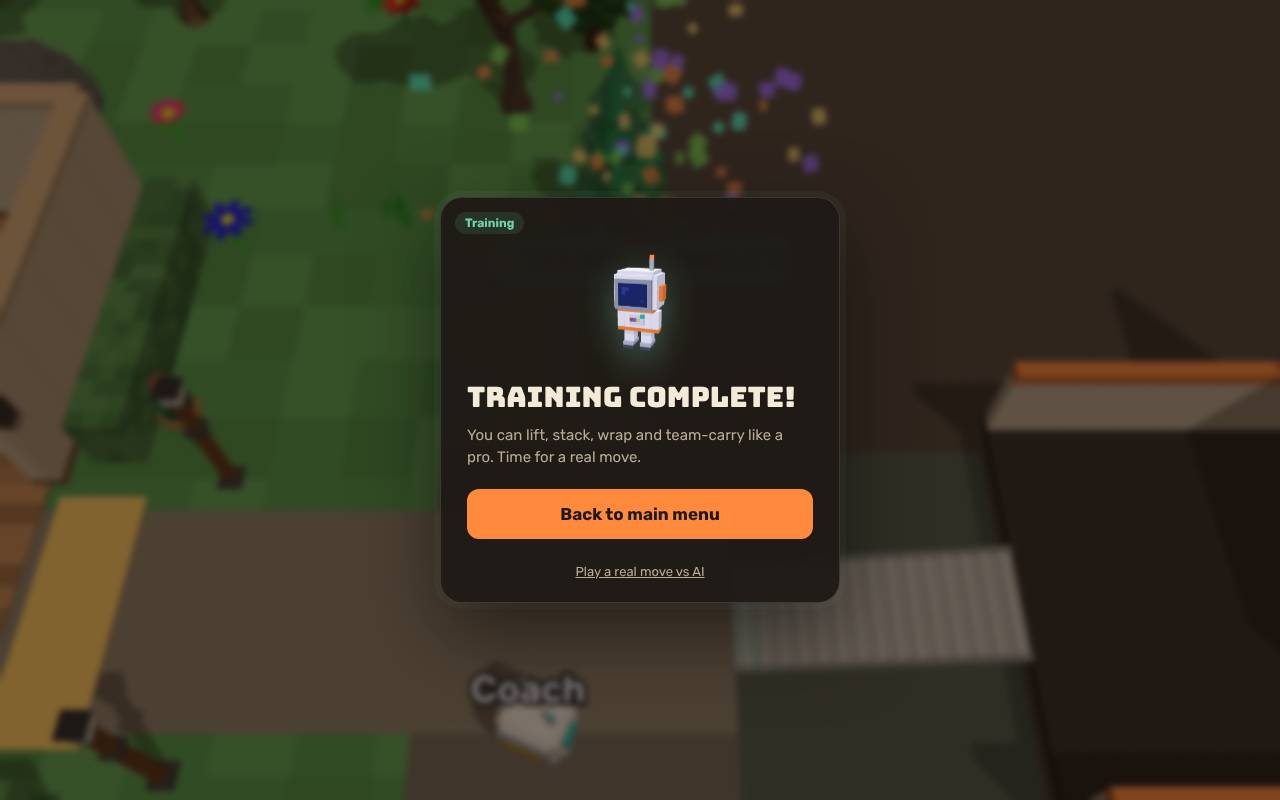
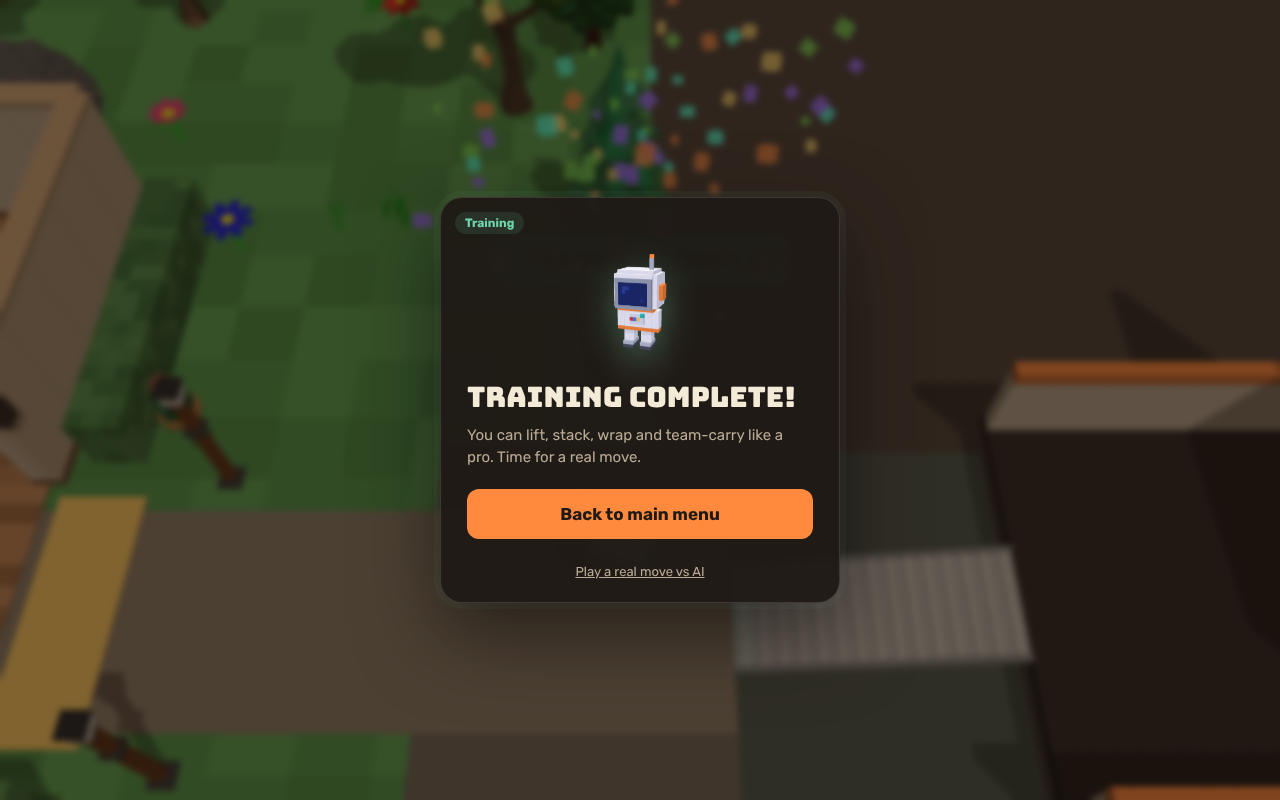
Tap battles for any box someone carries and any dolly someone pushes (the winner takes the dolly with its load)
Claude-Session: https://claude.ai/code/session_01648dekPAc2ghJPhwff6oRe

diff --git a/server/MoveRoom.js b/server/MoveRoom.js
@@ -733,6 +733,7 @@ export class MoveRoom extends Room {
     const target = wantOk ? want : this.nearestItem(p);
     if (!target) return;
     const t = ITEM_TYPES[target.type];
+    if (this.holderOf(target)) return this.startDuel(p, target); // someone else has it: fight for it
     if (target.type === 'flatdolly') {
       target.state = 'pushed'; target.pusher = p.id; p.flatDolly = target.id;
       this.event({ kind: 'emote', id: p.id, e: '🛞' });
@@ -767,8 +768,9 @@ export class MoveRoom extends Room {
   nearestItem(p) {
     let best = null, bd = REACH;
     for (const it of this.items.values()) {
-      if ((it.type === 'dolly' || it.type === 'flatdolly') && (p.bot || it.state !== 'floor')) continue; // AI movers leave the dollies alone
-      const stealable = it.state === 'carried' && ITEM_TYPES[it.type].teamCarry && it.carriers.length === 2 && !p.carry && !it.carriers.includes(p.id);
+      const grab = !p.bot && this.holderOf(it) && this.holderOf(it) !== p && !p.carry; // a box someone carries / a dolly someone pushes
+      if ((it.type === 'dolly' || it.type === 'flatdolly') && (p.bot || it.state !== 'floor') && !grab) continue; // AI movers leave the dollies alone
+      const stealable = grab || (it.state === 'carried' && ITEM_TYPES[it.type].teamCarry && it.carriers.length === 2 && !p.carry && !it.carriers.includes(p.id));
       if (it.state !== 'floor' && !(it.state === 'carried' && ITEM_TYPES[it.type].teamCarry && it.carriers.length === 1) && !stealable) continue;
       const t = ITEM_TYPES[it.type], len = Math.max(t.w, t.d);
       const d = dist(p, it) - (len > 1 ? len * 0.35 : 0);
@@ -777,12 +779,28 @@ export class MoveRoom extends Room {
     return best;
   }
 
-  // ---------- steal a two-mover lift: 5 s tap battle between the challenger and the nearest carrier ----------
+  /** who you'd have to beat to take this: the one mover carrying a box (or one-mover piece), or whoever pushes a dolly.
+   *  (A two-mover lift is fought over end by end: see startDuel.) */
+  holderOf(it) {
+    if ((it.type === 'dolly' || it.type === 'flatdolly') && it.state === 'pushed') return this.players.get(it.pusher) || null;
+    if (it.state === 'carried' && it.carriers.length === 1 && !ITEM_TYPES[it.type].teamCarry) return this.players.get(it.carriers[0]) || null;
+    return null;
+  }
+  /** does this mover still have it (carrying it, or pushing the dolly)? */
+  stillHolds(it, who) {
+    if (!it || !who) return false;
+    if (it.type === 'dolly' || it.type === 'flatdolly') return it.state === 'pushed' && it.pusher === who.id;
+    return it.state === 'carried' && it.carriers.includes(who.id);
+  }
+
+  // ---------- tap battles: steal an end of a two-mover lift, a box someone carries, or a dolly someone pushes ----------
   startDuel(p, item) {
     this.duels ||= new Map();
-    if (this.duels.has(item.id) || p.duel || p.carry || !this.isActive(p)) return;
-    const holders = item.carriers.map(id => this.players.get(id)).filter(Boolean);
-    if (holders.some(h => h.loadMode || h.duel)) return;
+    if (this.duels.has(item.id) || p.duel || p.carry || p.dolly || p.flatDolly || !this.isActive(p)) return;
+    const one = this.holderOf(item);
+    const holders = one ? [one] : item.carriers.map(id => this.players.get(id)).filter(Boolean);
+    if (holders.some(h => h.loadMode || h.duel || h === p)) return; // already at the truck, or busy
+    if (one && one.carry && one.carry !== item.id) return; // pushing a dolly but also holding a box (unloading it)
     const victim = holders.sort((a, b) => dist(p, a) - dist(p, b))[0];
     if (!victim) return;
     const d = { item: item.id, a: p.id, b: victim.id, t: DUEL_SECONDS, ca: 0, cb: 0, tok: { [p.id]: DUEL_TAP_BURST, [victim.id]: DUEL_TAP_BURST } };
@@ -790,7 +808,8 @@ export class MoveRoom extends Room {
     p.duel = item.id; victim.duel = item.id;
     const label = ITEM_TYPES[item.type].label.toLowerCase();
     this.event({ kind: 'duel', item: item.id, a: p.id, b: victim.id });
-    this.event({ kind: 'toast', text: `⚔ ${p.name} is trying to steal ${victim.name}'s end of the ${label}! TAP TAP TAP!`, cls: 'help' });
+    const what = item.type === 'dolly' || item.type === 'flatdolly' ? `${victim.name}'s ${label}` : one ? `the ${label} ${victim.name} is carrying` : `${victim.name}'s end of the ${label}`;
+    this.event({ kind: 'toast', text: `⚔ ${p.name} is trying to steal ${what}! TAP TAP TAP!`, cls: 'help' });
   }
   duelTap(p) {
     if (!p?.duel) return;
@@ -821,20 +840,28 @@ export class MoveRoom extends Room {
         while (bot.duelAcc >= 1) { bot.duelAcc -= 1; this.duelPoint(d, who); }
       }
       d.t -= dt;
-      const over = d.t <= 0 || !a || !this.isActive(a) || !item || item.state !== 'carried' || !item.carriers.includes(d.b);
+      const held = this.stillHolds(item, b);
+      const over = d.t <= 0 || !a || !this.isActive(a) || !item || !held;
       if (!over) continue;
       this.duels.delete(id);
       if (a) a.duel = null; if (b) b.duel = null;
-      if (!a || !item || item.state !== 'carried') continue;
-      const label = ITEM_TYPES[item.type].label.toLowerCase();
-      const holderGone = !b || !item.carriers.includes(d.b) || !this.isActive(b);
-      if ((d.ca > d.cb || holderGone) && !a.carry && this.isActive(a)) {
-        if (item.carriers.includes(d.b)) item.carriers[item.carriers.indexOf(d.b)] = a.id;
-        else if (item.carriers.length < 2) item.carriers.push(a.id);
-        if (b && b.carry === id) b.carry = null;
-        a.carry = id;
-        this.event({ kind: 'emote', id: a.id, e: '💪' });
-        this.event({ kind: 'toast', text: `⚔ ${a.name} wins ${Math.round(d.ca)}–${Math.round(d.cb)} and takes ${b?.name || 'their'}'s end of the ${label}!` });
+      const label = item ? ITEM_TYPES[item.type].label.toLowerCase() : '';
+      if (!a || !item || !held) { this.event({ kind: 'duelEnd', item: id, a: d.a, b: d.b, ca: d.ca, cb: d.cb }); continue; } // it got dropped or loaded mid-fight: nothing to win
+      const free = !a.carry && !a.dolly && !a.flatDolly && this.isActive(a);
+      if ((d.ca > d.cb || !this.isActive(b)) && free) {
+        const dollyKind = item.type === 'dolly' ? 'dolly' : item.type === 'flatdolly' ? 'flatDolly' : null;
+        if (dollyKind) { // the dolly and everything on it change hands
+          item.pusher = a.id; b[dollyKind] = null; a[dollyKind] = id;
+          if (item.type === 'flatdolly') item.wobble = 0;
+          this.event({ kind: 'emote', id: a.id, e: item.type === 'dolly' ? '🛒' : '🛞' });
+          this.event({ kind: 'toast', text: `⚔ ${a.name} wins ${Math.round(d.ca)}–${Math.round(d.cb)} and takes ${b.name}'s ${label}${item.stack?.length || item.piece ? ', load and all' : ''}!` });
+        } else {
+          item.carriers[item.carriers.indexOf(d.b)] = a.id;
+          if (b.carry === id) b.carry = null;
+          a.carry = id;
+          this.event({ kind: 'emote', id: a.id, e: '💪' });
+          this.event({ kind: 'toast', text: `⚔ ${a.name} wins ${Math.round(d.ca)}–${Math.round(d.cb)} and takes ${ITEM_TYPES[item.type].teamCarry ? `${b.name}'s end of the ${label}` : `the ${label} from ${b.name}`}!` });
+        }
       } else {
         this.event({ kind: 'toast', text: `🛡 ${b?.name || 'The carrier'} holds on ${Math.round(d.cb)}–${Math.round(d.ca)}! The ${label} stays put.` });
       }

diff --git a/test/duel.test.js b/test/duel.test.js
@@ -127,3 +127,57 @@ test('steal: a person tapping at an ordinary 6–7 taps a second beats a hard AI
   }
   assert.ok(wins >= 7, `an ordinary human pace should usually beat a hard AI (won ${wins}/10)`);
 });
+
+test('steal: tap someone carrying a box to fight for it; the winner walks off with it', () => {
+  const { room, P, couch, send } = setup();
+  couch.state = 'floor'; couch.carriers = []; P.A.carry = null; P.B.carry = null;
+  const box = [...room.items.values()].find(i => i.type === 'standard' && i.state === 'floor');
+  box.state = 'carried'; box.carriers = ['A']; P.A.carry = box.id;
+  P.A.x = 3; P.A.z = 3; box.x = 3; box.z = 3; P.C.x = 3.6; P.C.z = 3;
+  tap(room, P.C);
+  const d = room.duels.get(box.id);
+  assert.ok(d && d.a === 'C' && d.b === 'A', 'battle for the box');
+  mash(room, send, 'C', 40);
+  for (let t = 0; t < 6; t += DT) room.tick(DT);
+  assert.equal(P.C.carry, box.id); assert.equal(P.A.carry, null);
+  assert.deepEqual(box.carriers, ['C']);
+});
+
+test('steal: the box holder who taps harder keeps it', () => {
+  const { room, P, couch, send } = setup();
+  couch.state = 'floor'; couch.carriers = []; P.A.carry = null; P.B.carry = null;
+  const box = [...room.items.values()].find(i => i.type === 'standard' && i.state === 'floor');
+  box.state = 'carried'; box.carriers = ['A']; P.A.carry = box.id;
+  P.A.x = 3; P.A.z = 3; box.x = 3; box.z = 3; P.C.x = 3.6; P.C.z = 3;
+  tap(room, P.C);
+  mash(room, send, 'A', 40);
+  for (let t = 0; t < 6; t += DT) room.tick(DT);
+  assert.equal(P.A.carry, box.id); assert.equal(P.C.carry, null);
+});
+
+test('steal: fight for a dolly someone is pushing; the winner gets the dolly and its boxes', () => {
+  const room = new MoveRoom(), handlers = {};
+  room.onMessage = (t, fn) => { handlers[t] = fn; }; room.setSimulationInterval = () => {}; room.clients = []; room.broadcast = () => {};
+  room.onCreate({ level: 'classic' }); // with the dollies
+  for (const id of ['A', 'C']) { room.clients.push({ sessionId: id, send: () => {} }); room.onJoin({ sessionId: id }, {}, { name: id, email: id + '@x.io' }); }
+  room.startRound(); while (room.phase !== 'playing') room.tick(DT);
+  const A = room.players.get('A'), C = room.players.get('C'), send = (id, t, m) => handlers[t]({ sessionId: id }, m);
+  for (const kind of ['dolly', 'flatdolly']) {
+    const dl = room.items.get(kind), key = kind === 'dolly' ? 'dolly' : 'flatDolly';
+    A.x = dl.x; A.z = dl.z; tap(room, A);
+    assert.equal(A[key], kind, `A pushes the ${kind}`);
+    const box = [...room.items.values()].find(i => i.type === 'standard' && i.state === 'floor');
+    box.x = A.x + 0.3; box.z = A.z; tap(room, A);
+    assert.equal(dl.stack.length, 1, 'a box on it');
+    for (const it of room.items.values()) if (it.state === 'floor' && Math.hypot(it.x - dl.x, it.z - dl.z) < 2.5) { it.x += 6; } // nothing else within reach
+    C.x = dl.x + 0.4; C.z = dl.z + 0.3;
+    tap(room, C);
+    assert.ok(room.duels.get(kind), `battle for the ${kind}`);
+    mash(room, send, 'C', 40);
+    for (let t = 0; t < 6; t += DT) room.tick(DT);
+    assert.equal(C[key], kind, `C took the ${kind}`); assert.equal(A[key], null);
+    assert.equal(dl.pusher, 'C'); assert.equal(dl.stack.length, 1, 'load and all');
+    tap(room, C); // set it down for the next one
+    for (const p of [A, C]) { p.energy = 1; p.injuredT = 0; }
+  }
+});

diff --git a/client/src/main.js b/client/src/main.js
@@ -517,7 +517,8 @@ function renderHud(s, me) {
 function nearest(s, me) {
   let best = null, bd = 1.7;
   for (const it of s.items) {
-    const stealable = it.state === 'carried' && ITEM_TYPES[it.type].teamCarry && it.n === 2 && !me.carry;
+    const grab = !me.carry && ((it.state === 'carried' && !ITEM_TYPES[it.type].teamCarry && it.n === 1) || (it.state === 'pushed' && it.pusher && it.pusher !== myId)); // someone else's box or dolly
+    const stealable = grab || (it.state === 'carried' && ITEM_TYPES[it.type].teamCarry && it.n === 2 && !me.carry);
     if (it.state !== 'floor' && !(it.state === 'carried' && ITEM_TYPES[it.type].teamCarry && it.n === 1) && !stealable) continue;
     if ((it.fl || 0) !== (me.fl || 0)) continue; // right above or below you is not within reach
     const d = Math.hypot(it.x - me.x, it.z - me.z) - (ITEM_TYPES[it.type].w > 1 ? 0.6 : 0);
@@ -572,6 +573,8 @@ function renderPrompt(s, me) {
     if (it) {
       const t = ITEM_TYPES[it.type];
       if (it.assembled) { text = `🔧 HOLD to disassemble the ${t.label.toLowerCase()}`; action = 'HOLD 🔧'; }
+      else if (it.state === 'pushed') { text = `⚔ TAP to fight for the ${t.label.toLowerCase()}${it.stack?.length || it.piece ? ' and its load' : ''}: a 5-second tap battle!`; action = 'STEAL'; }
+      else if (it.state === 'carried' && !t.teamCarry) { text = `⚔ TAP to fight for that ${t.label.toLowerCase()}: a 5-second tap battle!`; action = 'STEAL'; }
       else if (it.state === 'carried' && it.n === 2) { text = `⚔ TAP to steal an end of the ${t.label.toLowerCase()}: a 5-second tap battle!`; action = 'STEAL'; }
       else if (it.state === 'carried') { text = `💪 TAP to grab the other end of the ${t.label.toLowerCase()}`; action = 'LIFT'; }
       else if (t.needsWrap && !it.wrapped) { text = `🧣 HOLD to pad-wrap the ${t.label.toLowerCase()} · TAP to grab as-is`; action = 'WRAP/GRAB'; }

diff --git a/client/index.html b/client/index.html
@@ -131,7 +131,7 @@
           <li>Couches, beds, desks and tables are <b>two-mover lifts</b>. Call for help, or use the <b>furniture dolly</b> (downstairs only): one piece of furniture, or four boxes, but push a full load gently or a box slides off. The <b>two-wheel dolly</b> stacks three boxes and can go up and down stairs.</li>
           <li>Bigger houses have <b>stairs</b>: walk up a flight to the next floor. The minimap shows the floor you're on.</li>
           <li>Carrying uses <b>energy</b>. Rush and you run out, get hurt and slow down; stand still to catch your breath.</li>
-          <li>Tap a lift someone else is carrying to start a 5-second <b>tap battle</b> for it. Taps count by how much energy you have left.</li>
+          <li>Tap a box or lift someone else is carrying, or a dolly someone is pushing, to start a 5-second <b>tap battle</b> for it. Taps count by how much energy you have left.</li>
           <li>Heard a crunch? <b>Call out</b> the culprit. Right call: they get a strike. Wrong call: you do.</li>
         </ul>
       </details>
